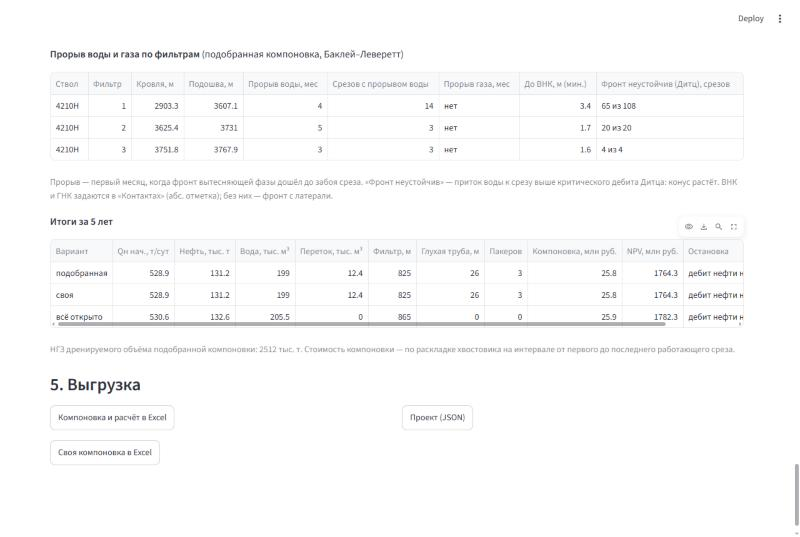
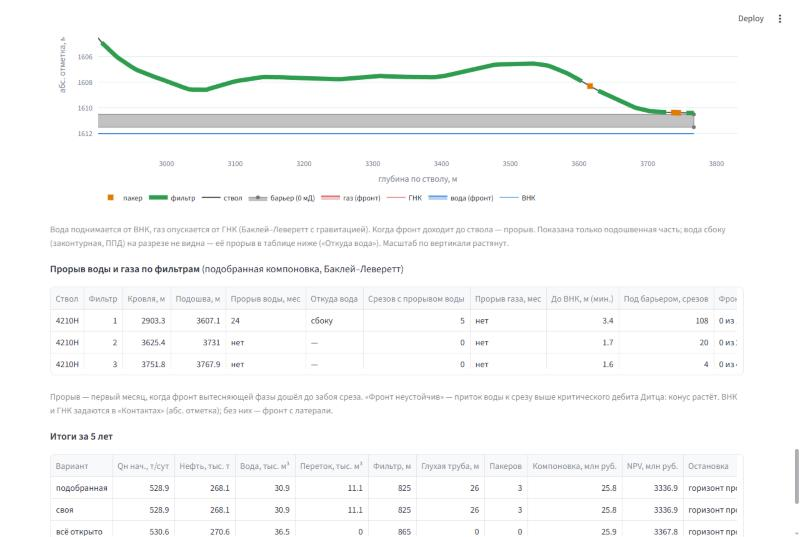
Скриншоты: контакты с барьером, настройки вытеснения и источника воды, разрез с непроницаемым барьером, таблица прорывов с «Откуда вода» и «Под барьером»; короткая подпись галочки барьера

diff --git a/src/retools/ui_rigis.py b/src/retools/ui_rigis.py
@@ -238,9 +238,10 @@ def _settings(case: RigisCase) -> RigisCase:
         owc_off = g4.number_input("Отступ от ВНК, м", 0.0, 100.0, 0.0, 0.5)
         st.session_state["contacts"] = dict(goc_tvd=goc or None, goc_offset=goc_off, owc_tvd=owc or None,
                                             owc_offset=owc_off)
-        use_bar = st.checkbox("Барьер (непроницаемый или плотный прослой) между стволом и ВНК/ГНК", value=False,
-                              help="Прослой глины или плотняка останавливает конус: вода снизу (газ сверху) проходит "
-                                   "через него не больше Дарси-потока при депрессии среза, остальная вода обходит "
+        use_bar = st.checkbox("Барьер под стволом (прослой)", value=False,
+                              help="Непроницаемый или плотный прослой (глина, плотняк) между стволом и ВНК/ГНК "
+                                   "останавливает конус: вода снизу (газ сверху) проходит через него не больше "
+                                   "Дарси-потока при депрессии среза, остальная вода обходит "
                                    "барьер и приходит сбоку. Отметки — абсолютные, как у ВНК.")
         if use_bar:
             b1, b2, b3 = st.columns(3)

diff --git a/docs/USER_GUIDE.md b/docs/USER_GUIDE.md
@@ -201,7 +201,9 @@ streamlit run app.py
 затем S-образный рост. Без ВНК вода всегда приходит сбоку. В таблице прорывов
 столбец «Откуда вода» показывает, какой фронт дошёл первым.
 
-**Барьер** — галочка рядом с «Контактами»: прослой глины или плотняка между
+![Вытеснение и источник воды](img/14_forecast_settings.jpg)
+
+**Барьер** — галочка «Барьер под стволом (прослой)» под «Контактами»: прослой глины или плотняка между
 стволом и ВНК (или между ГНК и стволом) с отметкой кровли, толщиной и
 проницаемостью (0 — непроницаемый). Через барьер вода поднимается не больше
 потока по Дарси при депрессии среза, остальная обходит его и приходит сбоку.
@@ -225,10 +227,17 @@ streamlit run app.py
 
 ![Разрез с конусами](img/11_cone_section.jpg)
 
-Таблица **«Прорыв воды и газа по фильтрам»**: месяц первого прорыва, сколько
-срезов фильтра прорвались, минимальное расстояние до ВНК и число срезов с
-неустойчивым фронтом — где приток воды выше критического дебита Дитца и конус
-растёт.
+С барьером под стволом он виден на разрезе серой полосой. Непроницаемый барьер
+(0 мД) не пускает конус к стволу: вода приходит только сбоку, позже и медленнее.
+
+![Разрез с непроницаемым барьером](img/15_barrier_section.jpg)
+
+Таблица **«Прорыв воды и газа по фильтрам»**: месяц первого прорыва, откуда
+пришла вода (снизу или сбоку), сколько срезов фильтра прорвались, минимальное
+расстояние до ВНК, сколько срезов закрыто барьером и число срезов с неустойчивым
+фронтом — где приток воды выше критического дебита Дитца и конус растёт. На
+снимке — та же скважина с непроницаемым барьером: первый фильтр обводняется
+сбоку на 24-м месяце, остальные за 5 лет не прорываются.
 
 ![Прорыв по фильтрам](img/12_breakthrough.jpg)
 

diff --git a/README.md b/README.md
@@ -39,6 +39,7 @@
 |---|---|
 | ![Планшет](docs/img/03_planshet.jpg) | ![Своя компоновка](docs/img/05_manual.jpg) |
 | ![Обводнение ствола по месяцам](docs/img/10_watering_map.jpg) | ![Разрез вдоль ствола: конусы от ВНК и ГНК](docs/img/11_cone_section.jpg) |
+| ![Вытеснение и источник воды](docs/img/14_forecast_settings.jpg) | ![Разрез с непроницаемым барьером](docs/img/15_barrier_section.jpg) |
 | ![Прогноз](docs/img/06_forecast.jpg) | ![Расчёт добычи](docs/img/09_gtm_well.jpg) |
 
 ## Быстрый старт
